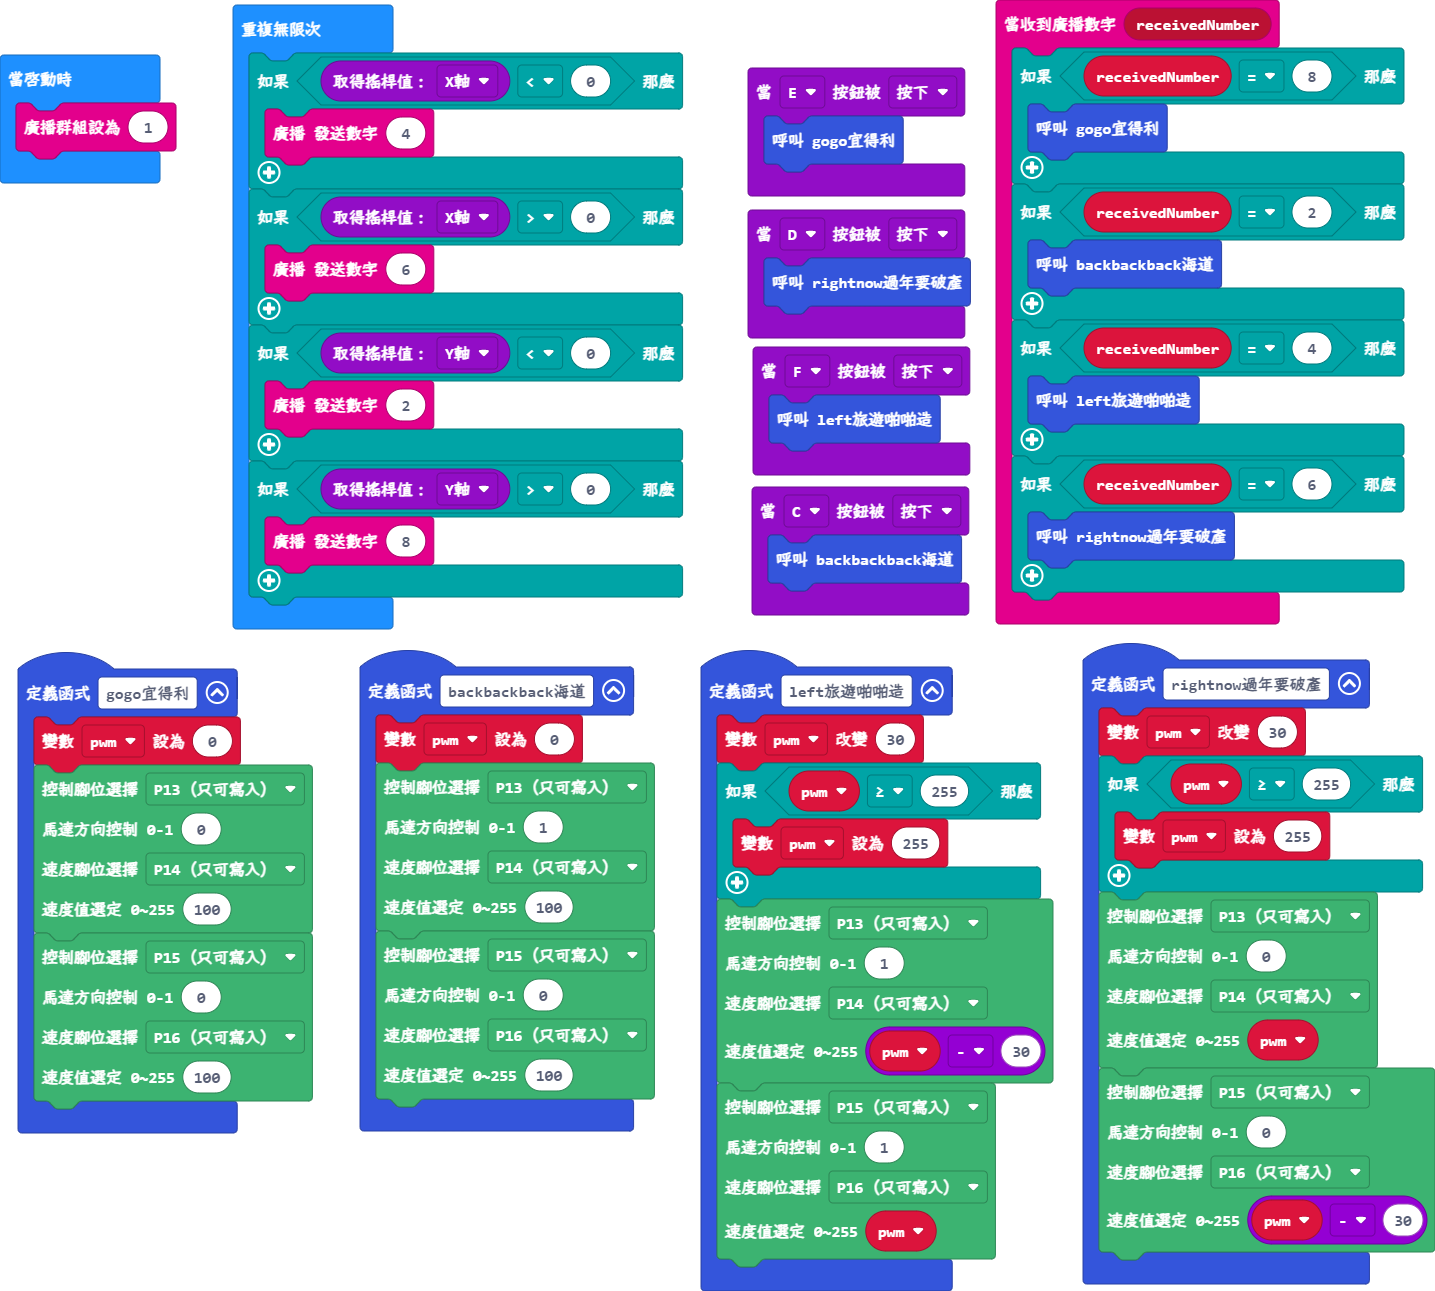
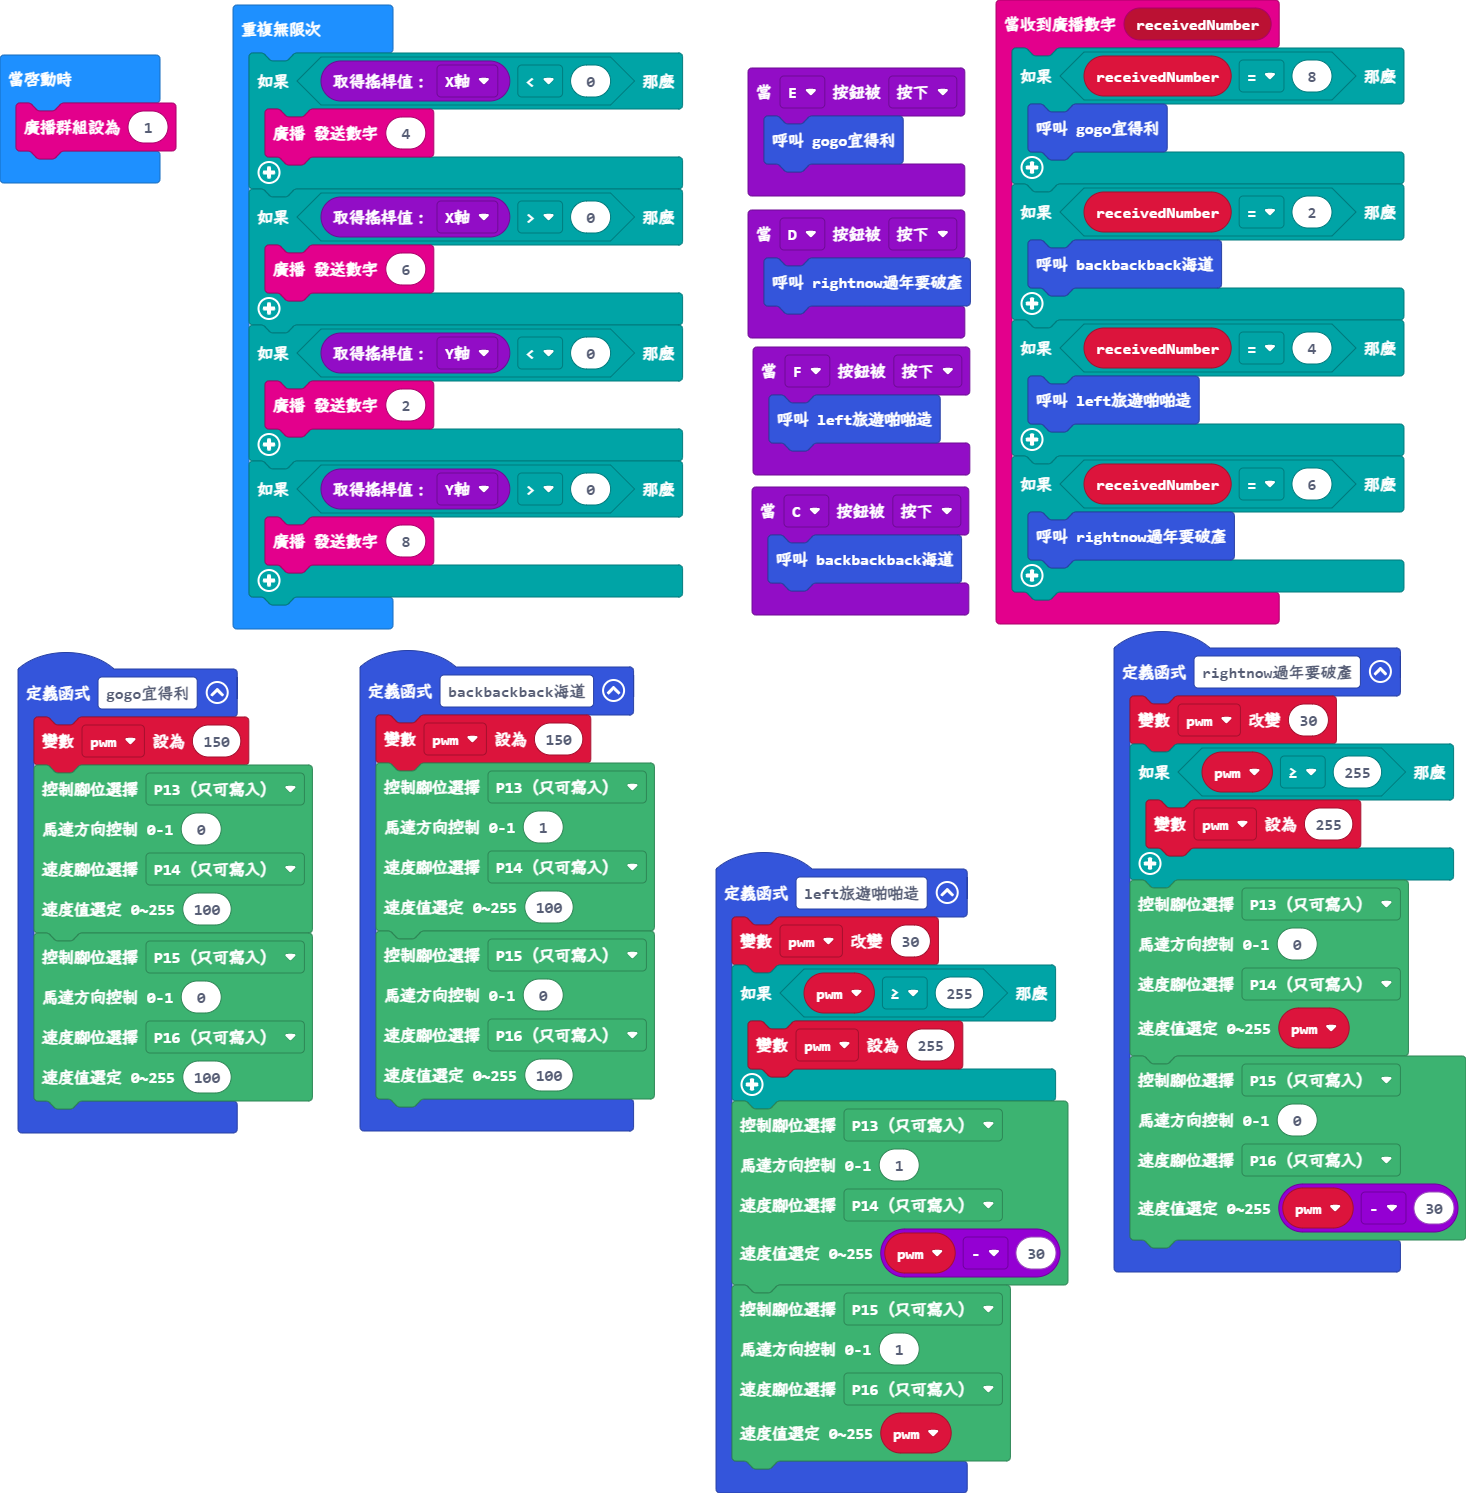
更新 main.blocks, main.ts

diff --git a/main.ts b/main.ts
@@ -1,5 +1,5 @@
 function backbackback海道 () {
-    pwm = 0
+    pwm = 150
     sensors.DDMmotor(
     AnalogPin.P13,
     1,
@@ -70,7 +70,7 @@ function rightnow過年要破產 () {
     )
 }
 function gogo宜得利 () {
-    pwm = 0
+    pwm = 150
     sensors.DDMmotor(
     AnalogPin.P13,
     0,
